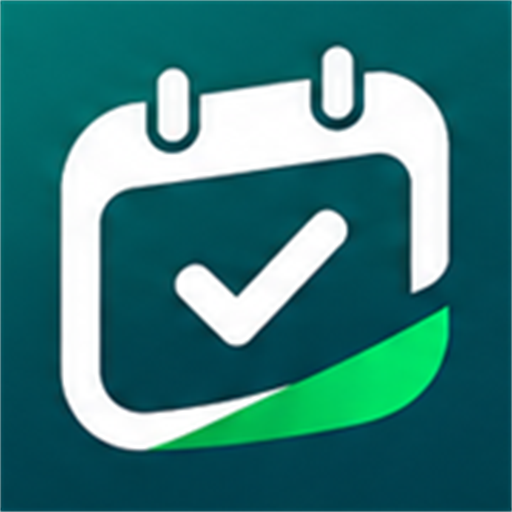
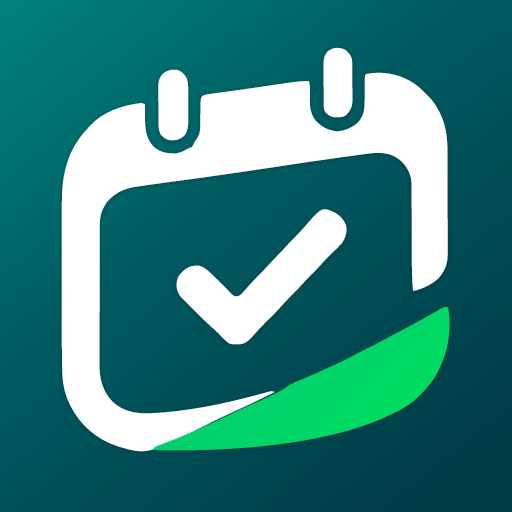
Fix iOS camera privacy crash and use regenerated Dawamkom branding

diff --git a/public/style.css b/public/style.css
@@ -139,7 +139,7 @@ button:disabled { opacity: .55; cursor: wait; }
 .brand { display: flex; align-items: center; gap: 11px; font-weight: 750; font-size: 23px; padding: 0 8px; }
 .mark {
   flex: 0 0 40px; height: 40px; border-radius: 11px;
-  background: #fff url("/brand-reference.png") -136px -71px / 252px 168px no-repeat;
+  background: #005a60 url("/dawamkom-logo.svg") center / cover no-repeat;
 }
 .workspace { display: flex; align-items: center; gap: 10px; padding: 11px; border: 1px solid #406157; border-radius: 10px; overflow-wrap: anywhere; font-size: 14px; }
 .workspace-icon { color: var(--mint); }

diff --git a/design/brand/README.md b/design/brand/README.md
@@ -1,1 +1,1 @@
-Vector reconstruction from public/app-icon-512.png. White and green silhouettes follow the existing artwork; fills use editable gradients. SVG contains paths only, no embedded bitmap. The existing application logo has not been replaced. Original raster texture and blur are not reproduced exactly; the original vector design master is needed to certify 100% fidelity.
+Approved regenerated Dawamkom vector logo. The SVG is the source for the website mark, PWA/Apple-touch icons, native app icon and in-app loading artwork. Raster assets are rendered directly from this SVG. Original raster texture is not reproduced; the user approved this regenerated artwork for use throughout Dawamkom.
